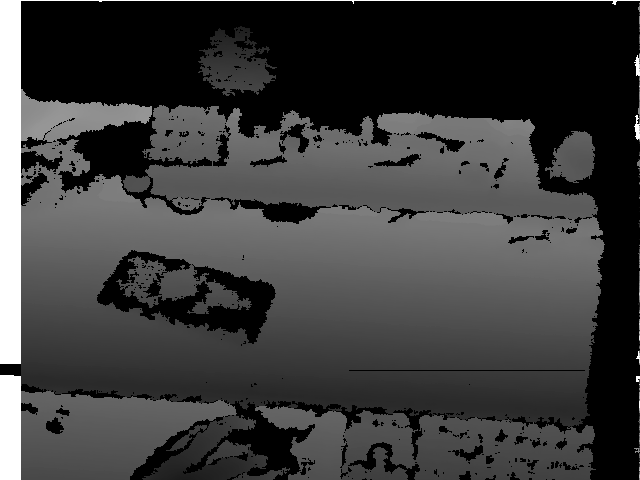
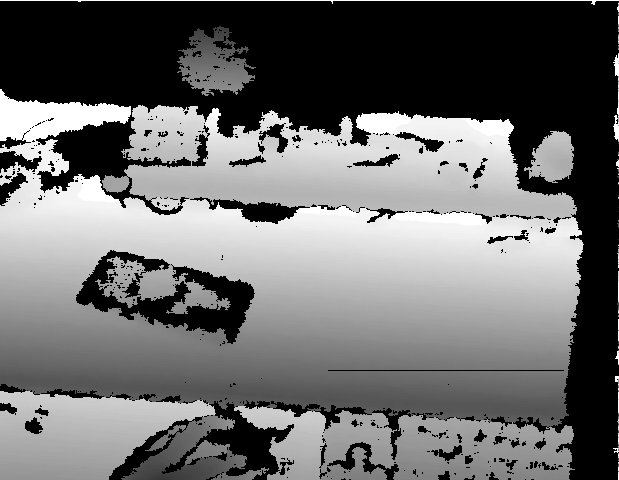
fix(mock): 深度画面铺满画框
- 深度样例裁为真实输出 619×480（去掉左侧 21 列垃圾带）
- 画面 object-fit: fill，按画框铺满，不留黑边
- RGB 640×480 同样铺满；灰度图同步更新

diff --git a/ui-web/src/mockapp/mock.css b/ui-web/src/mockapp/mock.css
@@ -203,7 +203,7 @@
   display: flex; align-items: center; justify-content: center;
   background: #0d0f12; border: 1px solid var(--border); border-radius: 9px; overflow: hidden;
 }
-.af-frame-body img { width: 100%; height: 100%; object-fit: contain; display: block; }
+.af-frame-body img { width: 100%; height: 100%; object-fit: fill; display: block; }
 .af-preview-pair { min-height: 280px; }
 .af-live {
   position: absolute; left: 8px; top: 8px;
